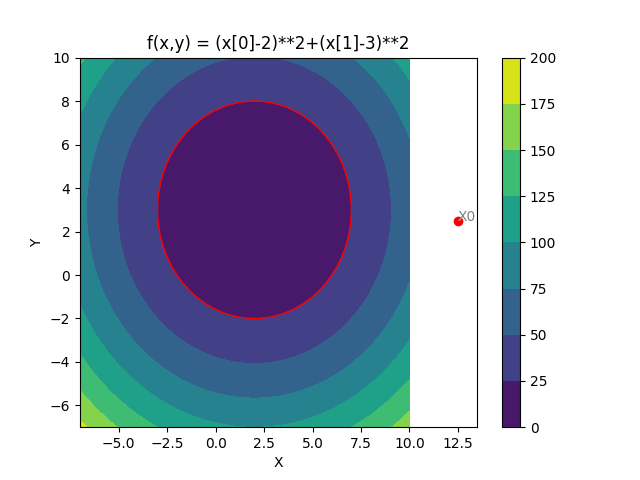
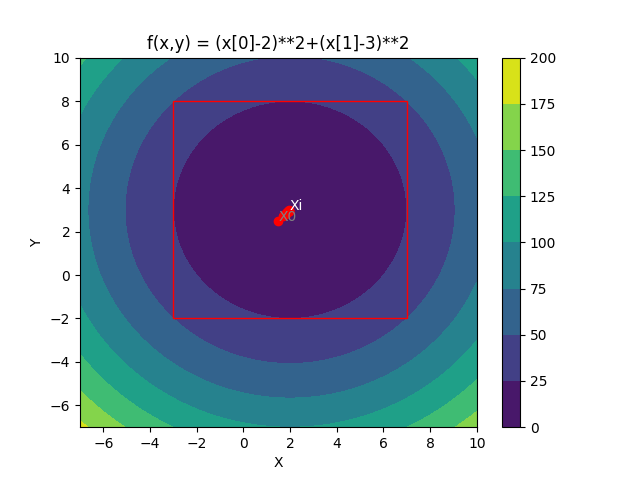
added fixed merge

diff --git a/main.py b/main.py
@@ -75,8 +75,9 @@ def rysujWykres(punkty):
         rectangle = plt.Rectangle((-3, -2), 10, 10, edgecolor='r', fill=None)
         plt.gca().add_patch(rectangle)
     if values["-STOP-"][0] == "Półkole":
-        semicircle = patches.Arc((2, -1), 10, 10, angle=0.0, theta1=0.0, theta2=180.0)
+        semicircle = patches.Arc((2, -1), 10, 10, angle=0.0, theta1=0.0, theta2=180.0, color='r')
         plt.gca().add_patch(semicircle)
+        plt.hlines(y=-1, xmin=-3, xmax=7, color='r')
 
     func3d_vectorized = []
     for point_x in x_points:
